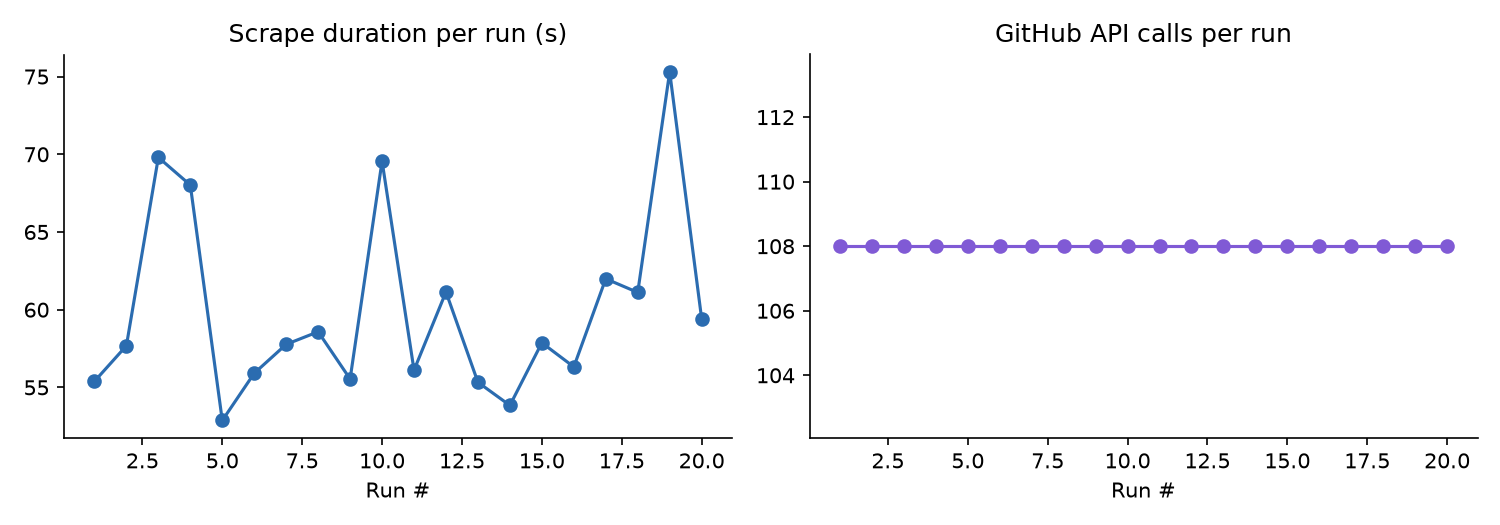
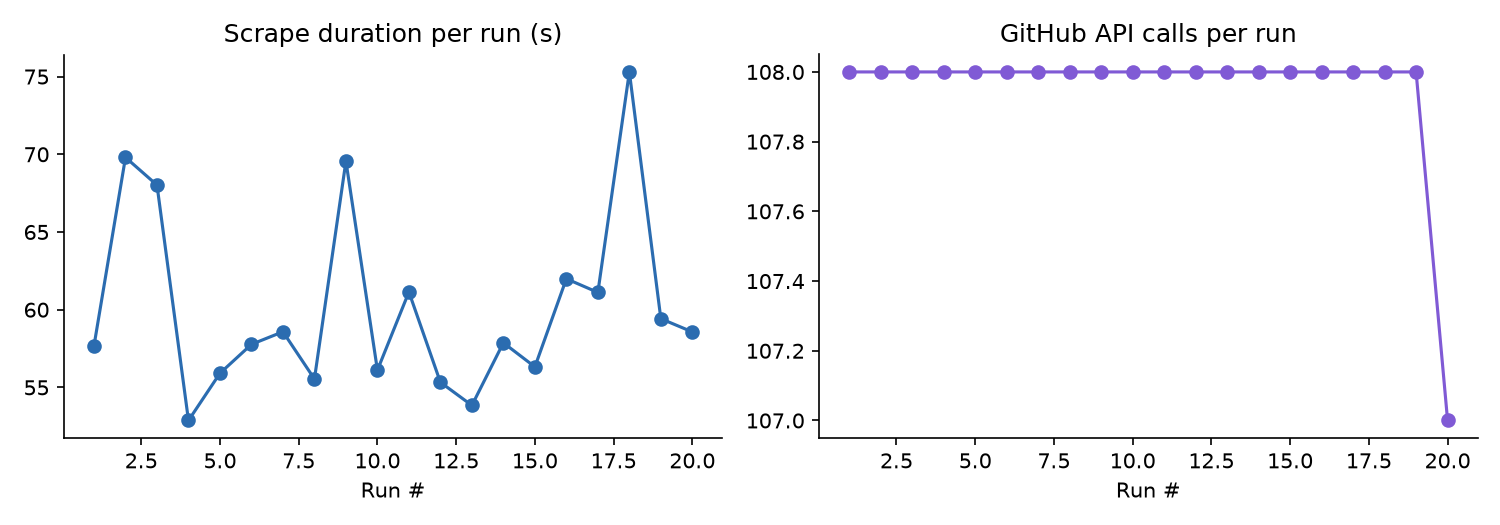
Weekly issue tracker refresh

diff --git a/README.md b/README.md
@@ -81,7 +81,7 @@ See [CONTRIBUTING.md](CONTRIBUTING.md) for the full contributor workflow — inc
 
 <!-- TRACKER:START -->
 
-_Last updated: 2026-07-30 10:50 UTC_
+_Last updated: 2026-07-30 11:32 UTC_
 
 _Tracking **18** upstream repos, **389** relevant open issues._
 
@@ -295,7 +295,7 @@ _Tracking **18** upstream repos, **389** relevant open issues._
 
 <!-- METRICS:START -->
 
-_Last run: 2026-07-30 10:49 UTC, took **59.4s**, **108** GitHub API calls, **4892/5000** rate limit remaining._
+_Last run: 2026-07-30 11:31 UTC, took **58.6s**, **107** GitHub API calls, **4785/5000** rate limit remaining._
 
 ![Scrape metrics trend](assets/metrics_trend.png)
 
